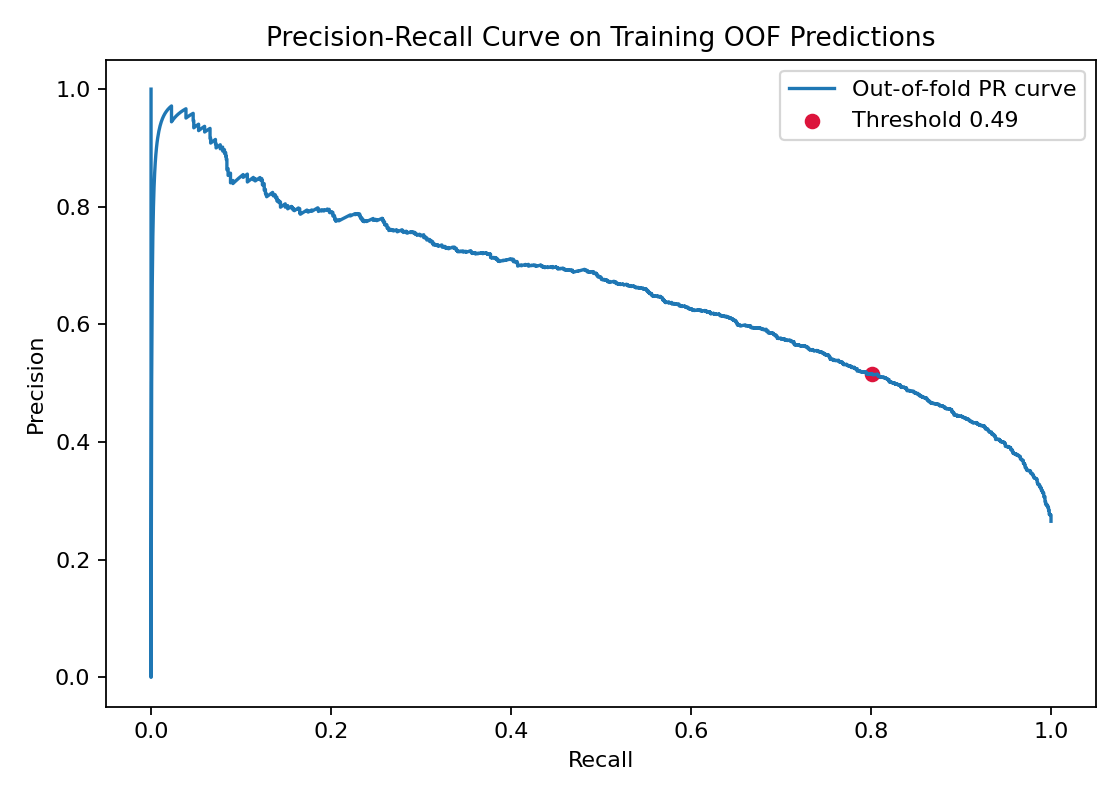
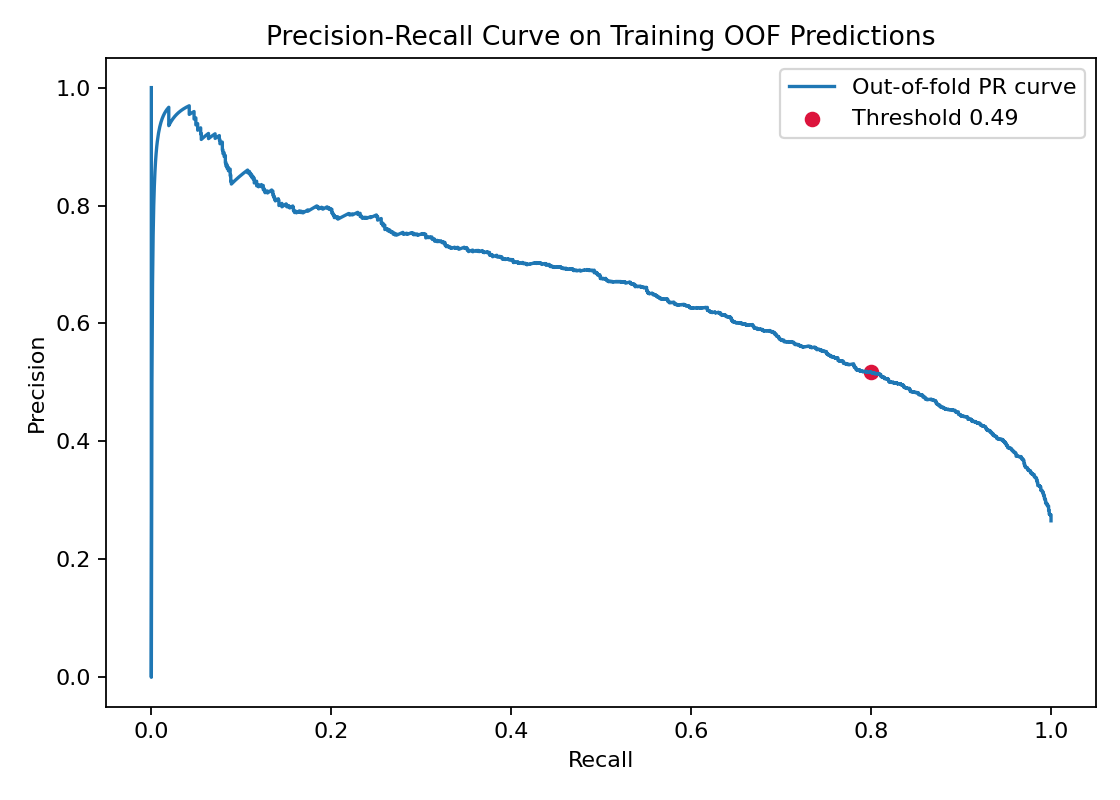
refactor: use make_column_selector to prevent shape mismatch in predict.py

diff --git a/scripts/preprocessing.py b/scripts/preprocessing.py
@@ -29,23 +29,25 @@ class ChurnFeatureEngineer(BaseEstimator, TransformerMixin):
     def transform(self, X):
         X = X.copy()
 
-        X["TotalCharges"] = pd.to_numeric(X["TotalCharges"], errors="coerce")
+        # X["TotalCharges"] = pd.to_numeric(X["TotalCharges"], errors="coerce")
 
-        tenure = pd.to_numeric(X["tenure"], errors="coerce")
-        total_charges = pd.to_numeric(X["TotalCharges"], errors="coerce")
+        tenure = pd.to_numeric(X["tenure"], errors="coerce").fillna(0)
+        total_charges = pd.to_numeric(X["TotalCharges"], errors="coerce").fillna(0)
 
         X["charges_per_month_of_tenure"] = total_charges / np.maximum(tenure, 1)
+
+        backet_labels = ["0-12", "13-24", "25-48", "49+"]
         X["tenure_bucket"] = pd.cut(
             tenure,
             bins=[-1, 12, 24, 48, np.inf],
-            labels=["0-12", "13-24", "25-48", "49+"],
-        ).astype("object")
+            labels=backet_labels
+        ).astype(str)
 
         available_service_cols = [col for col in SERVICE_COLUMNS if col in X.columns]
-        X["n_services"] = (
-            X[available_service_cols]
-            .apply(lambda col: ~col.isin(["No", "No internet service", "No phone service"]))
-            .sum(axis=1)
-        )
-
+        if available_service_cols:
+            inactive_masks = ["No", "No internet service", "No phone service"]
+            active_services_matrix = ~X[available_service_cols].isin(inactive_masks)
+            X["n_services"] = active_services_matrix.sum(axis=1)
+        else:
+            X["n_services"] = 0
         return X

diff --git a/scripts/train.py b/scripts/train.py
@@ -33,6 +33,7 @@ from sklearn.pipeline import Pipeline
 from sklearn.preprocessing import OneHotEncoder, StandardScaler
 
 from preprocessing import ChurnFeatureEngineer
+from sklearn.compose import make_column_selector
 
 
 RANDOM_STATE = 42
@@ -87,8 +88,8 @@ def make_preprocessor() -> ColumnTransformer:
     )
     return ColumnTransformer(
         [
-            ("num", num_pipe, NUM_COLS),
-            ("cat", cat_pipe, CAT_COLS),
+            ("num", num_pipe, make_column_selector(dtype_include=[np.number])),
+            ("cat", cat_pipe, make_column_selector(dtype_include=[object, "category"])),
         ],
         remainder="drop",
         verbose_feature_names_out=False,
@@ -288,6 +289,9 @@ def main():
     PLOTS_DIR.mkdir(parents=True, exist_ok=True)
 
     df = pd.read_csv(DATA_PATH)
+
+    df["TotalCharges"] = pd.to_numeric(df["TotalCharges"], errors="coerce")
+
     make_new_customers(df)
 
     y = df["Churn"].map({"No": 0, "Yes": 1})

diff --git a/scripts/predict.py b/scripts/predict.py
@@ -20,6 +20,10 @@ def main():
     threshold = json.loads(THRESHOLD_PATH.read_text(encoding="utf-8"))["threshold"]
 
     df = pd.read_csv(INPUT_PATH)
+
+    if "TotalCharges" in df.columns:
+        df["TotalCharges"] = pd.to_numeric(df["TotalCharges"], errors="coerce")
+
     customer_ids = df["customerID"].copy()
     X = df.drop(columns=["customerID"], errors="ignore")
     X = X.drop(columns=["Churn"], errors="ignore")
@@ -36,6 +40,8 @@ def main():
     )
     OUTPUT_PATH.parent.mkdir(exist_ok=True)
     output.to_csv(OUTPUT_PATH, index=False)
+
+    print("Predictions generated successfully:")
     print(output.to_string(index=False))
 
 

diff --git a/README.md b/README.md
@@ -21,9 +21,9 @@ All scores use 5-fold stratified cross-validation on the training split only.
 
 | model               |   recall_mean |   recall_std |   precision_mean |   precision_std |   f1_mean |   f1_std |   roc_auc_mean |   roc_auc_std |
 |:--------------------|--------------:|-------------:|-----------------:|----------------:|----------:|---------:|---------------:|--------------:|
-| Gradient Boosting   |         0.522 |        0.025 |            0.663 |           0.035 |     0.584 |    0.026 |          0.848 |         0.011 |
-| Logistic Regression |         0.797 |        0.035 |            0.519 |           0.017 |     0.628 |    0.021 |          0.846 |         0.011 |
-| Random Forest       |         0.672 |        0.031 |            0.582 |           0.018 |     0.624 |    0.022 |          0.841 |         0.009 |
+| Gradient Boosting   |         0.522 |        0.026 |            0.66  |           0.036 |     0.583 |    0.027 |          0.847 |         0.012 |
+| Logistic Regression |         0.796 |        0.035 |            0.519 |           0.016 |     0.628 |    0.02  |          0.846 |         0.011 |
+| Random Forest       |         0.672 |        0.032 |            0.585 |           0.019 |     0.625 |    0.023 |          0.842 |         0.008 |
 
 ## Baselines
 
@@ -40,23 +40,23 @@ Best model: **Logistic Regression**
 
 Logistic Regression was selected for tuning because it had the strongest churn recall in cross-validation while maintaining useful precision. That matches the business objective: missing a true churner is roughly 5x more costly than making an extra retention call.
 
-Tuned parameters: `{'model__C': 0.1, 'model__solver': 'liblinear'}`
+Tuned parameters: `{'model__C': 0.05, 'model__solver': 'liblinear'}`
 
-The decision threshold was chosen from out-of-fold training probabilities, selecting the highest precision threshold with recall >= 0.80. The frozen threshold is **0.491**.
+The decision threshold was chosen from out-of-fold training probabilities, selecting the highest precision threshold with recall >= 0.80. The frozen threshold is **0.490**.
 
 ## Final Held-Out Test Results
 
-- Recall: **0.794**
-- Precision: **0.495**
+- Recall: **0.791**
+- Precision: **0.497**
 - F1: **0.610**
-- ROC-AUC: **0.842**
+- ROC-AUC: **0.841**
 
 Confusion matrix:
 
 |               |   Pred No Churn |   Pred Churn |
 |:--------------|----------------:|-------------:|
-| True No Churn |             732 |          303 |
-| True Churn    |              77 |          297 |
+| True No Churn |             735 |          300 |
+| True Churn    |              78 |          296 |
 
 ## Run
 

diff --git a/results/results.md b/results/results.md
@@ -3,23 +3,23 @@
 ## Final Model
 
 - Best model: Logistic Regression
-- Tuned parameters: `{'model__C': 0.1, 'model__solver': 'liblinear'}`
-- Frozen threshold selected on out-of-fold training predictions: 0.491
-- Test recall: 0.794
-- Test precision: 0.495
+- Tuned parameters: `{'model__C': 0.05, 'model__solver': 'liblinear'}`
+- Frozen threshold selected on out-of-fold training predictions: 0.490
+- Test recall: 0.791
+- Test precision: 0.497
 - Test F1: 0.610
-- Test ROC-AUC: 0.842
+- Test ROC-AUC: 0.841
 
 ## Business Translation
 
-At threshold 0.491, the model flags about 426 customers per 1,000 for retention outreach. Based on test precision, about 211 of those 1,000 customers are expected to be true churners. This supports a recall-heavy campaign where missing a churner is about 5x more costly than calling a customer who would have stayed.
+At threshold 0.490, the model flags about 423 customers per 1,000 for retention outreach. Based on test precision, about 210 of those 1,000 customers are expected to be true churners. This supports a recall-heavy campaign where missing a churner is about 5x more costly than calling a customer who would have stayed.
 
 ## Test Confusion Matrix
 
 |               |   Pred No Churn |   Pred Churn |
 |:--------------|----------------:|-------------:|
-| True No Churn |             732 |          303 |
-| True Churn    |              77 |          297 |
+| True No Churn |             735 |          300 |
+| True Churn    |              78 |          296 |
 
 ## Baselines
 